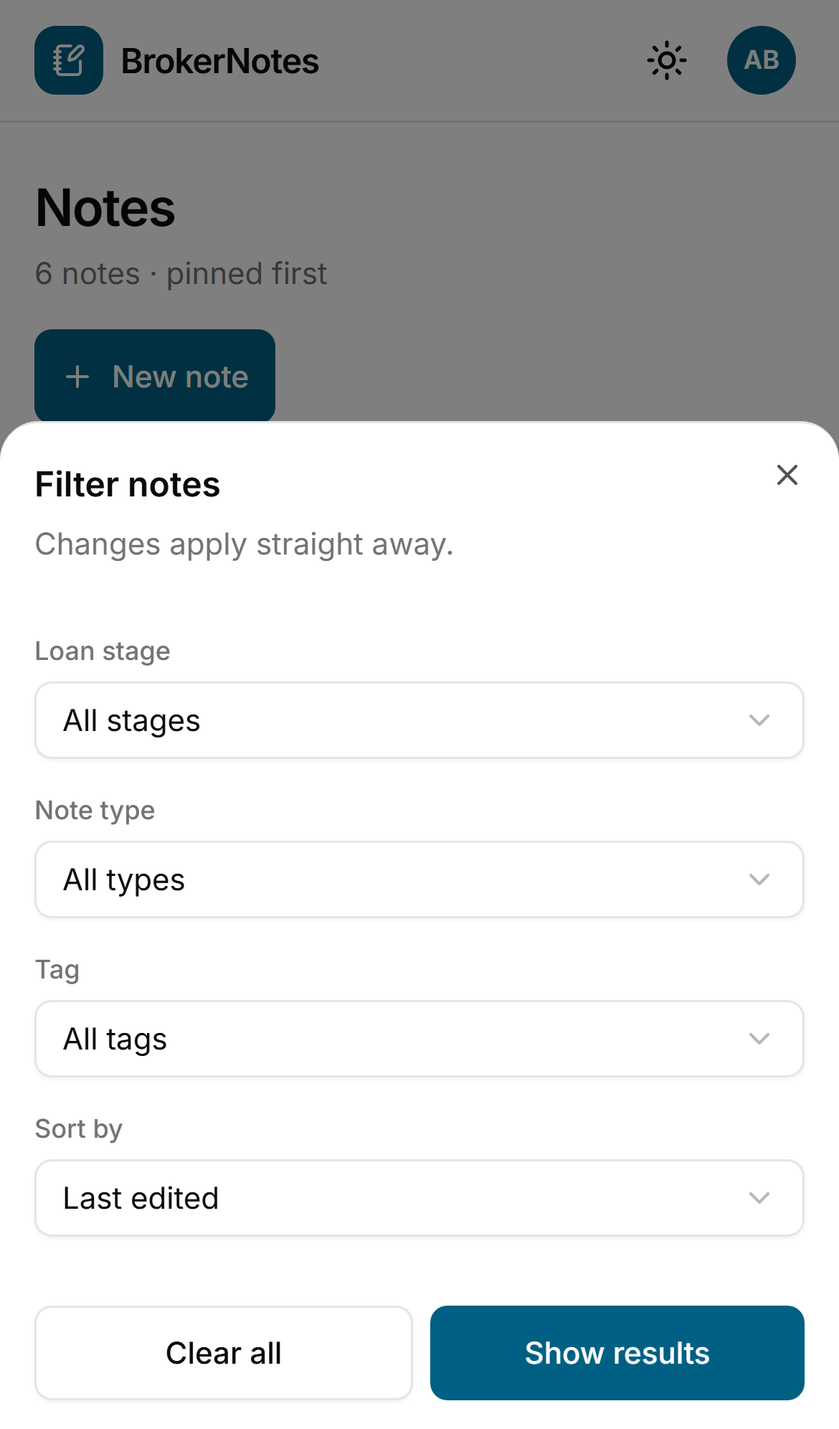
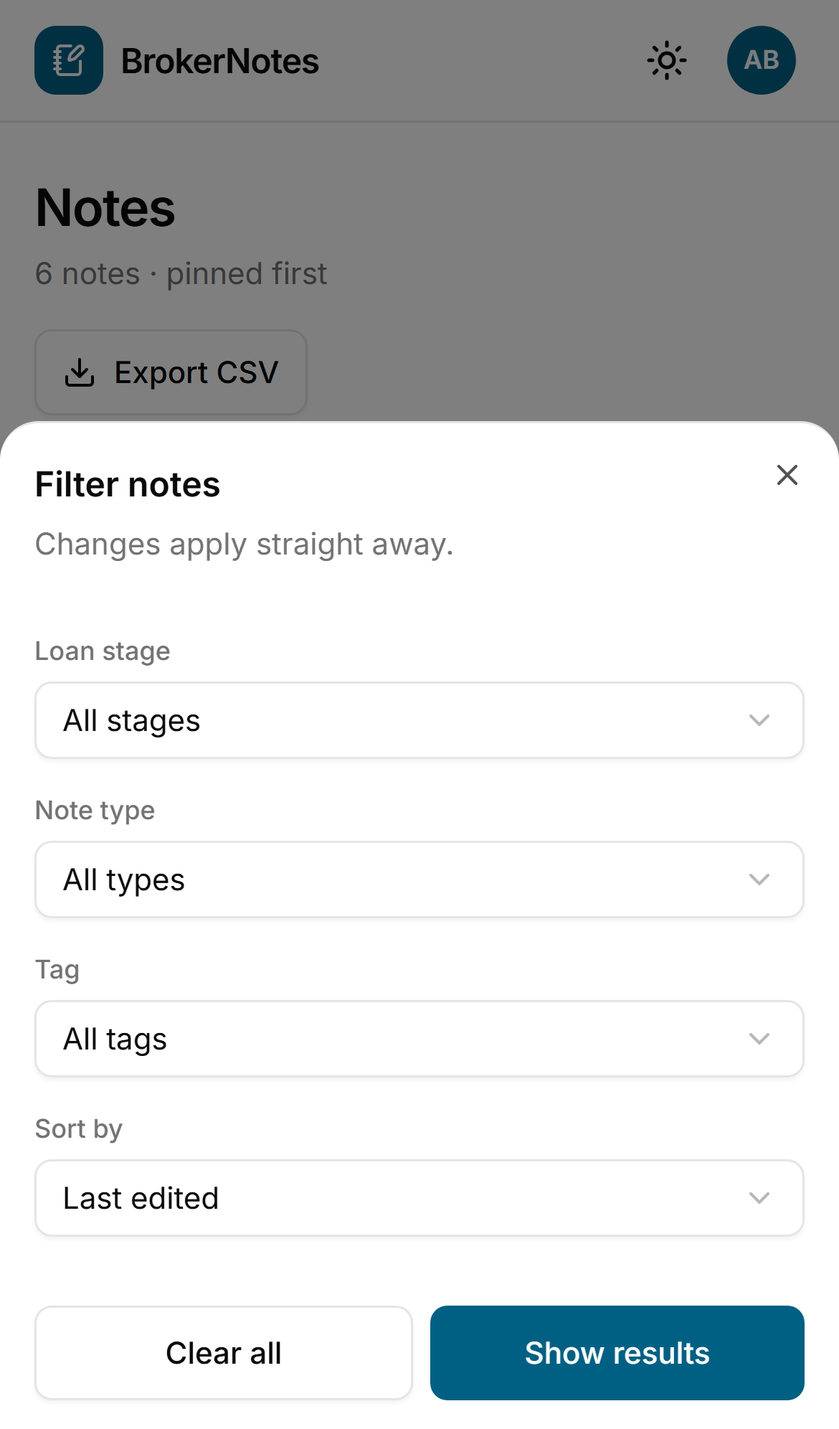
docs: Phase 4 screenshots and scratchpad update

Changed region(s): [[0.0308, 0.2179, 0.3385, 0.3112]]

diff --git a/scripts/screenshots.ts b/scripts/screenshots.ts
@@ -142,8 +142,23 @@ async function main() {
   await page.waitForURL(/\/notes$/);
   await page.screenshot({ path: `${OUT}/notes-empty-desktop.png` });
 
-  await page.getByRole("button", { name: "Create your first note" }).click();
-  await page.waitForURL(/\/notes\/.+/);
+  // Phase 4: client + template picker
+  await page.goto(`${BASE}/clients`);
+  await page.getByRole("button", { name: "New client" }).first().click();
+  await page.getByRole("dialog").getByLabel("Name").fill("Nguyen family");
+  await page.getByRole("dialog").getByLabel("Email").fill("nguyen@example.com");
+  await page.getByRole("dialog").getByLabel("Phone").fill("0400 123 456");
+  await page.getByRole("dialog").getByRole("button", { name: "Add client" }).click();
+  await page.waitForURL(/\/clients\/.+/);
+  await page.getByRole("link", { name: "New note", exact: true }).click();
+  await page.waitForURL(/\/notes\/new/);
+  await page
+    .getByRole("button", { name: /^Create note from template/ })
+    .first()
+    .waitFor();
+  await page.screenshot({ path: `${OUT}/templates-desktop.png` });
+  await page.getByRole("button", { name: "Create note from template: Blank note" }).click();
+  await page.waitForURL(/\/notes\/[a-z0-9]{20,}$/);
   await fillDemoNote(page);
   await page.screenshot({ path: `${OUT}/editor-desktop.png` });
   const noteUrl = page.url();
@@ -156,8 +171,35 @@ async function main() {
   await page.getByRole("option", { name: "Lead", exact: true }).click();
   await page.getByRole("dialog").getByLabel(/^Tags/).fill("first-home, fhog");
   await page.getByRole("dialog").getByLabel(/^Tags/).press("Enter");
-  await page.getByRole("dialog").getByText("Saved").waitFor();
+  const panel = page.getByRole("dialog");
+  const figures = [
+    ["Loan amount", "680k"],
+    ["Property value", "850k"],
+    ["Household income (p.a.)", "182k"],
+    ["Rate (% p.a.)", "6.04"],
+    ["Lender", "ANZ"],
+  ] as const;
+  for (const [label, value] of figures) {
+    await panel.getByLabel(label).fill(value);
+    await panel.getByLabel(label).press("Enter");
+  }
+  await panel.getByText("80%").waitFor();
+  await panel.getByText("Saved").waitFor();
   await page.screenshot({ path: `${OUT}/details-panel-desktop.png` });
+  await panel.getByText("Key loan figures").scrollIntoViewIfNeeded();
+  await page.screenshot({ path: `${OUT}/key-figures-desktop.png` });
+  await page.keyboard.press("Escape");
+
+  // History panel
+  await page.getByRole("button", { name: "History", exact: true }).click();
+  await page
+    .getByRole("dialog")
+    .getByRole("list", { name: "Versions, newest first" })
+    .getByRole("button")
+    .first()
+    .click();
+  await page.getByLabel("Version preview").waitFor();
+  await page.screenshot({ path: `${OUT}/history-desktop.png` });
   await page.keyboard.press("Escape");
 
   await seedDemoNotes(EMAIL);
@@ -170,6 +212,51 @@ async function main() {
   await page.goto(`${BASE}/notes?q=offset`);
   await page.locator("mark").first().waitFor();
   await page.screenshot({ path: `${OUT}/notes-search-desktop.png` });
+
+  // Finalised note with an amendment (on a seeded note)
+  await page.goto(`${BASE}/notes`);
+  await page.getByRole("link", { name: /Chen – lender rationale/ }).click();
+  await page.getByRole("button", { name: "Finalise", exact: true }).click();
+  await page.getByRole("button", { name: "Finalise note" }).click();
+  await page.getByRole("note").waitFor();
+  await page
+    .getByLabel("Add an amendment")
+    .fill("Client confirmed on 2 Dec that $20k of the deposit is a gift; gift letter on file.");
+  await page.getByRole("button", { name: "Add amendment" }).click();
+  await page.getByText("Amendment 1 ·").waitFor();
+  await page.screenshot({ path: `${OUT}/finalised-desktop.png`, fullPage: true });
+
+  // Import preview → clients list → client timeline
+  await page.goto(`${BASE}/clients`);
+  await page.getByRole("button", { name: "Import CSV" }).click();
+  const csv = [
+    "Full Name,E-mail,Mobile",
+    "Asha Patel,asha@example.com,0400 111 222",
+    "Ben Wong,,0411 222 333",
+    ",nobody@example.com,",
+    "Nguyen dup,NGUYEN@example.com,",
+    "Chloe Smith,chloe@example.com,0422 333 444",
+  ].join("\n");
+  await page
+    .getByRole("dialog")
+    .locator("input[type=file]")
+    .setInputFiles({ name: "crm-export.csv", mimeType: "text/csv", buffer: Buffer.from(csv) });
+  await page
+    .getByRole("dialog")
+    .getByText(/ready to import/)
+    .waitFor();
+  await page.waitForTimeout(400); // let the dialog finish animating in
+  await page.screenshot({ path: `${OUT}/import-preview-desktop.png` });
+  await page
+    .getByRole("dialog")
+    .getByRole("button", { name: /^Import \d/ })
+    .click();
+  await page.getByRole("dialog").getByRole("button", { name: "Done" }).click();
+  await page.getByRole("link", { name: "Open client: Chloe Smith" }).waitFor();
+  await page.screenshot({ path: `${OUT}/clients-desktop.png` });
+  await page.getByRole("link", { name: "Open client: Nguyen family" }).click();
+  await page.getByText(/File notes/).waitFor();
+  await page.screenshot({ path: `${OUT}/client-timeline-desktop.png` });
 
   // Mobile, same session
   const storage = await ctx.storageState();
@@ -193,6 +280,17 @@ async function main() {
   await mp.goto(noteUrl);
   await mp.getByRole("textbox", { name: "Note body" }).waitFor();
   await mp.screenshot({ path: `${OUT}/editor-mobile.png` });
+  await mp.getByRole("button", { name: /^Details/ }).click();
+  await mp.getByRole("dialog").getByText("Key loan figures").scrollIntoViewIfNeeded();
+  await mp.waitForTimeout(400);
+  await mp.screenshot({ path: `${OUT}/details-mobile.png` });
+  await mp.keyboard.press("Escape");
+  await mp.goto(`${BASE}/clients`);
+  await mp
+    .getByRole("link", { name: /^Open client:/ })
+    .first()
+    .waitFor();
+  await mp.screenshot({ path: `${OUT}/clients-mobile.png` });
 
   const dark = await browser.newContext({
     ...devices["iPhone 13"],

diff --git a/SCRATCHPAD.md b/SCRATCHPAD.md
@@ -33,7 +33,7 @@ The working log for the build. It's updated in every PR and records progress, de
   - [x] Version snapshots, throttled to at most 1 per 5 minutes while editing
   - [x] Notes list: cards with snippets and relative AU dates, empty state, skeletons, delete with confirmation
   - [x] 74 unit tests, plus 8 Playwright E2E tests (desktop and mobile), plus an E2E job in CI
-- [ ] **Phase 3: Notes list, search and filters** (`phase-3/search-filters`, tracking issue #5)
+- [x] **Phase 3: Notes list, search and filters** (`phase-3/search-filters`, PR #26, merged)
   - [x] Note details schema: `noteType`, `loanStage`, `tags[]`, `followUpAt`, `pinned` (migration `note_metadata`)
   - [x] Search across title and body (case-insensitive), with the match highlighted in the title and in a snippet centred on it
   - [x] Filters for loan stage, note type and tag; sorting by last edited, created, follow-up or title; pinned notes always first
@@ -43,7 +43,16 @@ The working log for the build. It's updated in every PR and records progress, de
   - [x] Note **Details panel** (right sheet on desktop, bottom sheet on mobile): type, stage, follow-up date, tags with suggestions, pin. Changes apply instantly and save one by one.
   - [x] Card badges: colour-coded stage, type, tags, follow-up (overdue in red, today in amber); pin/unpin from the card menu
   - [x] 107 unit tests (including daylight-saving edge cases) and 14 E2E tests (desktop and mobile)
-- [ ] Phase 4: Broker features, plus CSV import and export
+- [ ] **Phase 4: Broker features + CSV** (`phase-4/broker-features`, tracking issue #6)
+  - [x] `Client` model (unique email per broker), `/clients` list with search, `/clients/[id]` timeline, add and edit dialogs, client picker in Details with inline "New client", search notes by client name, `?client=` filter chip
+  - [x] **Key loan figures**: loan amount, property value, auto **LVR** (with an LMI hint above 80%), income, rate, lender (AU lender suggestions); amounts accept `850k` / `$1.2m` / `1,250,000`
+  - [x] **6 broker templates** (Discovery, Fact find, Best interests / lender rationale, Conditions, Settlement, Annual review) plus Blank, with the client's name in the title
+  - [x] **Finalise**: server-enforced lock on title, body, type, client and figures; workflow fields stay editable; pending autosave is flushed first; final snapshot
+  - [x] **Amendments**: append-only and timestamped, finalised notes only
+  - [x] **Version history**: list, read-only preview, restore (drafts only); the current state is snapshotted first, so a restore can itself be undone
+  - [x] **CSV export** of notes (respects the active filters) and clients: authenticated, BOM, CRLF, quoting, **formula-injection guard**
+  - [x] **CSV import** of clients: header auto-mapping, preview with per-row validation, duplicate detection (in the file and against existing clients), 2 MB / 1,000-row limits, server re-validation, result summary
+  - [x] 140 unit tests and **26 E2E tests** (desktop and mobile)
 - [ ] Phase 5: AI via OpenRouter
 - [ ] Phase 6: Polish, README and deploy
 - [ ] Phase 7 (stretch): "Ask my notes" agent, email draft, processor role
@@ -52,36 +61,44 @@ The working log for the build. It's updated in every PR and records progress, de
 
 ## Decisions log
 
-| Date       | Decision                                                                                                  | Why                                                                                                                                                                                                              |
-| ---------- | --------------------------------------------------------------------------------------------------------- | ---------------------------------------------------------------------------------------------------------------------------------------------------------------------------------------------------------------- |
-| 2026-11-28 | Target **Australian** mortgage brokers                                                                    | Research found the hiring group (Stephen Ventures / Carisma) processes loans for AU brokers, and the linked startup Finobi builds AI file notes for AU advisers. ASIC RG 273 makes file notes a compliance need. |
-| 2026-11-28 | Postgres on **Neon** with **Prisma 6**                                                                    | Free tier, works well with Vercel, and gives type-safe queries. Prisma 6 keeps the simpler `url`/`directUrl` config.                                                                                             |
-| 2026-11-28 | **Next.js 15.5**, not 16                                                                                  | A stable, well-known setup that works with Auth.js v5 and Tiptap.                                                                                                                                                |
-| 2026-11-28 | AI through **OpenRouter** (free or cheap models)                                                          | Keeps cost close to zero. The model is set in env, so it can be swapped without code changes.                                                                                                                    |
-| 2026-11-28 | **One structured AI call** per analysis, no agent in the core app                                         | One call is cheaper, faster and more reliable on free models than a multi-step agent. An "Ask my notes" agent stays an optional stretch goal.                                                                    |
-| 2026-11-28 | Mobile-first UI with a bottom tab bar on phones                                                           | Brokers often write notes on the go, between client meetings.                                                                                                                                                    |
-| 2026-11-28 | Branch per phase, PR into `main`, and the owner merges                                                    | Every change gets reviewed, and CI must pass before merging.                                                                                                                                                     |
-| 2026-11-28 | Multi-job CI with one required "CI passed" gate                                                           | Each check reports separately, so it's clear what failed. Jobs run in parallel, and branch protection only needs to require one check.                                                                           |
-| 2026-11-28 | Auth.js v5 (beta) with Credentials and **JWT** sessions, pinned to `5.0.0-beta.32`                        | The assignment asks for email/password. JWT means no session table, and the edge middleware can check the token without a DB call. Pinned because it's a beta.                                                   |
-| 2026-11-28 | `bcryptjs`, not native `bcrypt`                                                                           | Pure JavaScript, so there's no native build step on Windows or Vercel. Cost 12.                                                                                                                                  |
-| 2026-11-28 | Constant-time login (compare against a dummy hash when the user doesn't exist), one generic error message | Stops attackers from finding out which emails are registered.                                                                                                                                                    |
-| 2026-11-28 | Same-site-only post-login redirects (`safeRedirect`); the middleware builds a relative `callbackUrl`      | Prevents open redirects. Also fixes a bug found in the end-to-end check, where Auth.js's absolute callbackUrl was rejected and the broker landed on /notes instead of the page they asked for.                   |
-| 2026-11-28 | Zod kept out of client bundles (password limits live in `lib/auth/constants.ts`)                          | The /register page JavaScript dropped from 27.3 kB to 2.9 kB.                                                                                                                                                    |
-| 2026-11-28 | **Tiptap 3.34.0**, not v2 or the newest 3.35.1                                                            | v3 is the current major version (StarterKit includes Link and Underline; TableKit). Pinned to the newest release that's at least 2 weeks old, for stability.                                                     |
-| 2026-11-28 | Store the document as Tiptap JSON, plus a plain-text copy                                                 | JSON keeps the formatting exact. The plain text gives fast search and list snippets without parsing JSON.                                                                                                        |
-| 2026-11-28 | Soft delete (`deletedAt`)                                                                                 | File notes are compliance records (ASIC RG 273). Deleting hides a note but keeps the record.                                                                                                                     |
-| 2026-11-28 | Version snapshots throttled to 1 per 5 minutes                                                            | Autosave fires every ~1.5s, so a snapshot per save would flood the history. One every 5 minutes is a useful audit trail at a fraction of the rows.                                                               |
-| 2026-11-28 | Autosave **max wait** plus **save when the page is hidden**                                               | Found with screenshots: a plain debounce never fires while someone types steadily, so switching apps on a phone could lose work.                                                                                 |
-| 2026-11-28 | Send a plain JSON copy of the doc (`toPlainDoc`) to the server action                                     | ProseMirror uses null-prototype `attrs`, which React's server-action serializer sends as unreadable "temporary references". Formatted notes failed to save until this was fixed (found by E2E).                  |
-| 2026-11-28 | Playwright E2E on desktop and **mobile (Pixel 7)**, against real Postgres in CI                           | Proves the core flow and cross-user isolation on both form factors. Browsers live on D: locally because C: is short on space.                                                                                    |
-| 2026-11-28 | Keep shadcn's official `cn` package                                                                       | I briefly removed it, mistaking it for an unrelated package. It's published by shadcn (`shadcn-ui/cn`), so it was restored, and components import it through `@/lib/utils` so there's one place to change it.    |
-| 2026-11-28 | Note details added in Phase 3 (not Phase 4)                                                               | Filtering by stage, type, tags and follow-ups needs those fields to exist. Phase 4 extends the same panel with clients, key figures, finalise and history.                                                       |
-| 2026-11-28 | Filter state in the **URL**, parsed leniently with Zod                                                    | Shareable and bookmarkable, works with back/forward and reloads. Hand-edited or garbage params are ignored instead of causing errors.                                                                            |
-| 2026-11-28 | Follow-ups stored as **local midnight in Australia/Sydney**                                               | A follow-up is a calendar day, not an instant. Computing "due today" and "overdue" in the broker's time zone (with daylight saving) avoids off-by-one-day bugs from UTC servers.                                 |
-| 2026-11-28 | Client-side taxonomy lists, with a compile-time check against the Prisma enums                            | Client components get labels without bundling Prisma, and `tsc` fails if the lists drift from the enums.                                                                                                         |
-| 2026-11-28 | Search uses `ILIKE` (Prisma `contains`, insensitive) for now                                              | Plenty fast for a broker's notes (hundreds per user). Full-text search or `pg_trgm` is a later optimisation if needed.                                                                                           |
-| 2026-11-28 | Details save instantly and optimistically, with rollback on error                                         | No separate "Save" step for small fields. Server actions run in order, so rapid changes can't arrive out of order.                                                                                               |
-| 2026-11-28 | `next build` without `--turbopack`                                                                        | The webpack production build is the more proven option for deployment.                                                                                                                                           |
+| Date       | Decision                                                                                                  | Why                                                                                                                                                                                                                 |
+| ---------- | --------------------------------------------------------------------------------------------------------- | ------------------------------------------------------------------------------------------------------------------------------------------------------------------------------------------------------------------- |
+| 2026-11-28 | Target **Australian** mortgage brokers                                                                    | Research found the hiring group (Stephen Ventures / Carisma) processes loans for AU brokers, and the linked startup Finobi builds AI file notes for AU advisers. ASIC RG 273 makes file notes a compliance need.    |
+| 2026-11-28 | Postgres on **Neon** with **Prisma 6**                                                                    | Free tier, works well with Vercel, and gives type-safe queries. Prisma 6 keeps the simpler `url`/`directUrl` config.                                                                                                |
+| 2026-11-28 | **Next.js 15.5**, not 16                                                                                  | A stable, well-known setup that works with Auth.js v5 and Tiptap.                                                                                                                                                   |
+| 2026-11-28 | AI through **OpenRouter** (free or cheap models)                                                          | Keeps cost close to zero. The model is set in env, so it can be swapped without code changes.                                                                                                                       |
+| 2026-11-28 | **One structured AI call** per analysis, no agent in the core app                                         | One call is cheaper, faster and more reliable on free models than a multi-step agent. An "Ask my notes" agent stays an optional stretch goal.                                                                       |
+| 2026-11-28 | Mobile-first UI with a bottom tab bar on phones                                                           | Brokers often write notes on the go, between client meetings.                                                                                                                                                       |
+| 2026-11-28 | Branch per phase, PR into `main`, and the owner merges                                                    | Every change gets reviewed, and CI must pass before merging.                                                                                                                                                        |
+| 2026-11-28 | Multi-job CI with one required "CI passed" gate                                                           | Each check reports separately, so it's clear what failed. Jobs run in parallel, and branch protection only needs to require one check.                                                                              |
+| 2026-11-28 | Auth.js v5 (beta) with Credentials and **JWT** sessions, pinned to `5.0.0-beta.32`                        | The assignment asks for email/password. JWT means no session table, and the edge middleware can check the token without a DB call. Pinned because it's a beta.                                                      |
+| 2026-11-28 | `bcryptjs`, not native `bcrypt`                                                                           | Pure JavaScript, so there's no native build step on Windows or Vercel. Cost 12.                                                                                                                                     |
+| 2026-11-28 | Constant-time login (compare against a dummy hash when the user doesn't exist), one generic error message | Stops attackers from finding out which emails are registered.                                                                                                                                                       |
+| 2026-11-28 | Same-site-only post-login redirects (`safeRedirect`); the middleware builds a relative `callbackUrl`      | Prevents open redirects. Also fixes a bug found in the end-to-end check, where Auth.js's absolute callbackUrl was rejected and the broker landed on /notes instead of the page they asked for.                      |
+| 2026-11-28 | Zod kept out of client bundles (password limits live in `lib/auth/constants.ts`)                          | The /register page JavaScript dropped from 27.3 kB to 2.9 kB.                                                                                                                                                       |
+| 2026-11-28 | **Tiptap 3.34.0**, not v2 or the newest 3.35.1                                                            | v3 is the current major version (StarterKit includes Link and Underline; TableKit). Pinned to the newest release that's at least 2 weeks old, for stability.                                                        |
+| 2026-11-28 | Store the document as Tiptap JSON, plus a plain-text copy                                                 | JSON keeps the formatting exact. The plain text gives fast search and list snippets without parsing JSON.                                                                                                           |
+| 2026-11-28 | Soft delete (`deletedAt`)                                                                                 | File notes are compliance records (ASIC RG 273). Deleting hides a note but keeps the record.                                                                                                                        |
+| 2026-11-28 | Version snapshots throttled to 1 per 5 minutes                                                            | Autosave fires every ~1.5s, so a snapshot per save would flood the history. One every 5 minutes is a useful audit trail at a fraction of the rows.                                                                  |
+| 2026-11-28 | Autosave **max wait** plus **save when the page is hidden**                                               | Found with screenshots: a plain debounce never fires while someone types steadily, so switching apps on a phone could lose work.                                                                                    |
+| 2026-11-28 | Send a plain JSON copy of the doc (`toPlainDoc`) to the server action                                     | ProseMirror uses null-prototype `attrs`, which React's server-action serializer sends as unreadable "temporary references". Formatted notes failed to save until this was fixed (found by E2E).                     |
+| 2026-11-28 | Playwright E2E on desktop and **mobile (Pixel 7)**, against real Postgres in CI                           | Proves the core flow and cross-user isolation on both form factors. Browsers live on D: locally because C: is short on space.                                                                                       |
+| 2026-11-28 | Keep shadcn's official `cn` package                                                                       | I briefly removed it, mistaking it for an unrelated package. It's published by shadcn (`shadcn-ui/cn`), so it was restored, and components import it through `@/lib/utils` so there's one place to change it.       |
+| 2026-11-28 | Note details added in Phase 3 (not Phase 4)                                                               | Filtering by stage, type, tags and follow-ups needs those fields to exist. Phase 4 extends the same panel with clients, key figures, finalise and history.                                                          |
+| 2026-11-28 | Filter state in the **URL**, parsed leniently with Zod                                                    | Shareable and bookmarkable, works with back/forward and reloads. Hand-edited or garbage params are ignored instead of causing errors.                                                                               |
+| 2026-11-28 | Follow-ups stored as **local midnight in Australia/Sydney**                                               | A follow-up is a calendar day, not an instant. Computing "due today" and "overdue" in the broker's time zone (with daylight saving) avoids off-by-one-day bugs from UTC servers.                                    |
+| 2026-11-28 | Client-side taxonomy lists, with a compile-time check against the Prisma enums                            | Client components get labels without bundling Prisma, and `tsc` fails if the lists drift from the enums.                                                                                                            |
+| 2026-11-28 | Search uses `ILIKE` (Prisma `contains`, insensitive) for now                                              | Plenty fast for a broker's notes (hundreds per user). Full-text search or `pg_trgm` is a later optimisation if needed.                                                                                              |
+| 2026-11-28 | Details save instantly and optimistically, with rollback on error                                         | No separate "Save" step for small fields. Server actions run in order, so rapid changes can't arrive out of order.                                                                                                  |
+| 2026-11-28 | **Squash-merge only + linear history** on `main`                                                          | Dependabot PRs merged on top of #24 (which already contained their changes) produced a tangle of merge commits. Each PR now lands as one commit titled with the PR title. History is left as it was; no force-push. |
+| 2026-11-28 | Snapshot the **previous** state, not the new one                                                          | Found by E2E: snapshotting the new content (throttled to 5 minutes) meant wording written and replaced within a window never reached history. Now the content about to be overwritten is saved.                     |
+| 2026-11-28 | Finalised-note rules enforced **on the server** (`lockedFieldIn`, `canEditContent`)                       | A disabled input can be bypassed. Server actions reject content edits and locked fields on finalised notes.                                                                                                         |
+| 2026-11-28 | Workflow fields (stage, follow-up, tags, pin) stay editable after finalising                              | They describe what happens next, not what was recorded. The record itself (title, body, type, client, figures) is locked, and corrections are amendments.                                                           |
+| 2026-11-28 | Key figures as validated JSON (`keyFigures`), not columns                                                 | Optional, evolving set of fields; Zod-validated on read and write; nothing in it needs indexing yet.                                                                                                                |
+| 2026-11-28 | CSV import is client-parsed (papaparse) and **server re-validated**                                       | The preview gives instant feedback; the server never trusts the browser's validation. Duplicates are skipped, never overwritten.                                                                                    |
+| 2026-11-28 | CSV export escapes `= + - @ \t \r` cells                                                                  | A client name like `=HYPERLINK(…)` would otherwise run as a formula in Excel (OWASP CSV injection).                                                                                                                 |
+| 2026-11-28 | Local Playwright limited to 3 workers                                                                     | Each sign-up runs two bcrypt (cost 12) hashes. Too many parallel browsers starved the CPU and registrations timed out. CI uses 2 workers.                                                                           |
+| 2026-11-28 | `next build` without `--turbopack`                                                                        | The webpack production build is the more proven option for deployment.                                                                                                                                              |
 
 ---
 
@@ -94,6 +111,8 @@ The working log for the build. It's updated in every PR and records progress, de
 - `npm audit` lists high-severity advisories in `effect` and `deepmerge-ts`, which come from the **Prisma CLI's** config loader (`prisma` → `@prisma/config`). That's dev and migration tooling only, never in the runtime bundle. Waiting for a patched Prisma 6 release, which Dependabot will raise.
 - The editor page loads 179 kB of JavaScript (Tiptap and ProseMirror). That's acceptable for the main editing screen; the toolbar could be lazy-loaded later if needed.
 - No version-history UI yet. Snapshots are already recorded; the history drawer arrives in Phase 4.
+- **Stale remote branches** (`phase-0/setup`, `phase-1/auth`, two old Dependabot branches) need deleting. The AI's attempt to delete remote branches was blocked by the permission system, so the owner should run `git push origin --delete …`. Auto-delete on merge is on from now.
+- Finalising can't be undone by design. Deleting a finalised note is still allowed (it's a soft delete, so the record is kept).
 - There's no login rate limiting yet. Serverless needs a shared store (for example Upstash) for that, so it's a candidate for Phase 6.
 - No "forgot password" or email verification; there's no email provider, which is out of scope for the assignment.
 
@@ -103,14 +122,16 @@ The working log for the build. It's updated in every PR and records progress, de
 
 The app is built with Claude Code (Claude Opus 5.5) as a pair programmer. The human sets direction and reviews every PR. The AI researches, plans and writes code.
 
-| Phase    | Prompt or intent                                                                                         | What the AI did                                                                                                                                                                                                                                                                                          |
-| -------- | -------------------------------------------------------------------------------------------------------- | -------------------------------------------------------------------------------------------------------------------------------------------------------------------------------------------------------------------------------------------------------------------------------------------------------- |
-| Planning | "Research mortgage broker features, plus Stephan Ventures and Finobi, using separate agents"             | Ran 3 parallel research agents (broker workflow and compliance, Stephen Ventures / Carisma, Finobi), then combined their findings into the Australian-broker, compliance-first product direction.                                                                                                        |
-| Planning | "Break this phase by phase, use the GitHub PR workflow, OpenRouter, keep it mobile friendly, handle CSV" | Wrote the phased plan with "done when" criteria, the branch and PR workflow, the code-quality setup, the mobile-first layout rules, and the CSV import/export design (including formula-injection protection).                                                                                           |
-| 0        | "Start Phase 0"                                                                                          | Scaffolded the app and set up the tooling, theme, app shell, Prisma and CI. Kept `main` limited to the README so the scaffold could be reviewed in a PR.                                                                                                                                                 |
-| 1        | "The CI pipeline looks basic, make it more accurate"                                                     | Redesigned CI as parallel, single-purpose jobs, each writing a summary (test counts, coverage table, migration drift, bundle sizes). Added security scanning, PR hygiene and Dependabot.                                                                                                                 |
-| 1        | "Show Phase 0 and Phase 1 explicitly on GitHub"                                                          | Created a milestone, tracking issue and `phase-N` label for each phase. The labeler applies phase labels from the branch name automatically.                                                                                                                                                             |
-| 1        | Build Phase 1 (auth)                                                                                     | Implemented Auth.js v5 credentials auth and wrote 41 unit tests. Then ran the real forms end to end against Neon, which found and fixed the absolute-callbackUrl redirect bug.                                                                                                                           |
-| 2        | Build Phase 2 (Tiptap editor)                                                                            | Built the editor, autosave, versioning, list and delete. Wrote unit tests and Playwright E2E tests, captured screenshots, and **reviewed them visually**. That review found and fixed 2 real bugs (formatted notes failing to save; steady typing never autosaving) and added regression tests for both. |
-| 3        | "Merged it, update main and start Phase 3. Lots of PRs were raised, can we clear them?"                  | Triaged 12 Dependabot PRs: closed 4 majors with ignore rules, combined 7 Actions updates into one PR (#24), and configured Dependabot to skip npm majors and group Actions updates.                                                                                                                      |
-| 3        | Build Phase 3 (search and filters)                                                                       | Built search, filters, the follow-ups view, the Details panel and pinning. Tested with unit tests (daylight-saving edge cases) and E2E on mobile and desktop. Reviewed screenshots and fixed polish issues (duplicate date icon, headings running into snippets, redundant mobile button).               |
+| Phase    | Prompt or intent                                                                                         | What the AI did                                                                                                                                                                                                                                                                                                         |
+| -------- | -------------------------------------------------------------------------------------------------------- | ----------------------------------------------------------------------------------------------------------------------------------------------------------------------------------------------------------------------------------------------------------------------------------------------------------------------- |
+| Planning | "Research mortgage broker features, plus Stephan Ventures and Finobi, using separate agents"             | Ran 3 parallel research agents (broker workflow and compliance, Stephen Ventures / Carisma, Finobi), then combined their findings into the Australian-broker, compliance-first product direction.                                                                                                                       |
+| Planning | "Break this phase by phase, use the GitHub PR workflow, OpenRouter, keep it mobile friendly, handle CSV" | Wrote the phased plan with "done when" criteria, the branch and PR workflow, the code-quality setup, the mobile-first layout rules, and the CSV import/export design (including formula-injection protection).                                                                                                          |
+| 0        | "Start Phase 0"                                                                                          | Scaffolded the app and set up the tooling, theme, app shell, Prisma and CI. Kept `main` limited to the README so the scaffold could be reviewed in a PR.                                                                                                                                                                |
+| 1        | "The CI pipeline looks basic, make it more accurate"                                                     | Redesigned CI as parallel, single-purpose jobs, each writing a summary (test counts, coverage table, migration drift, bundle sizes). Added security scanning, PR hygiene and Dependabot.                                                                                                                                |
+| 1        | "Show Phase 0 and Phase 1 explicitly on GitHub"                                                          | Created a milestone, tracking issue and `phase-N` label for each phase. The labeler applies phase labels from the branch name automatically.                                                                                                                                                                            |
+| 1        | Build Phase 1 (auth)                                                                                     | Implemented Auth.js v5 credentials auth and wrote 41 unit tests. Then ran the real forms end to end against Neon, which found and fixed the absolute-callbackUrl redirect bug.                                                                                                                                          |
+| 2        | Build Phase 2 (Tiptap editor)                                                                            | Built the editor, autosave, versioning, list and delete. Wrote unit tests and Playwright E2E tests, captured screenshots, and **reviewed them visually**. That review found and fixed 2 real bugs (formatted notes failing to save; steady typing never autosaving) and added regression tests for both.                |
+| 3        | "Merged it, update main and start Phase 3. Lots of PRs were raised, can we clear them?"                  | Triaged 12 Dependabot PRs: closed 4 majors with ignore rules, combined 7 Actions updates into one PR (#24), and configured Dependabot to skip npm majors and group Actions updates.                                                                                                                                     |
+| 3        | Build Phase 3 (search and filters)                                                                       | Built search, filters, the follow-ups view, the Details panel and pinning. Tested with unit tests (daylight-saving edge cases) and E2E on mobile and desktop. Reviewed screenshots and fixed polish issues (duplicate date icon, headings running into snippets, redundant mobile button).                              |
+| 4        | "Merged all three, start Phase 4. This chore(ci) looks bad, see the git graph"                           | Found that 4 Dependabot PRs had been merged on top of the combined #24, creating 5 merge commits for one change (verified **no code difference**). Switched the repo to squash-only with linear history and auto-delete branches; left history intact.                                                                  |
+| 4        | Build Phase 4 (broker features + CSV)                                                                    | Built clients, key figures, templates, finalise/amendments, version history and CSV import/export. E2E found **4 real bugs** (unlabelled icon buttons on mobile, a money field overwriting what was typed, history losing intermediate wording, locator ambiguity), all fixed. Screenshot review led to 3 polish fixes. |
